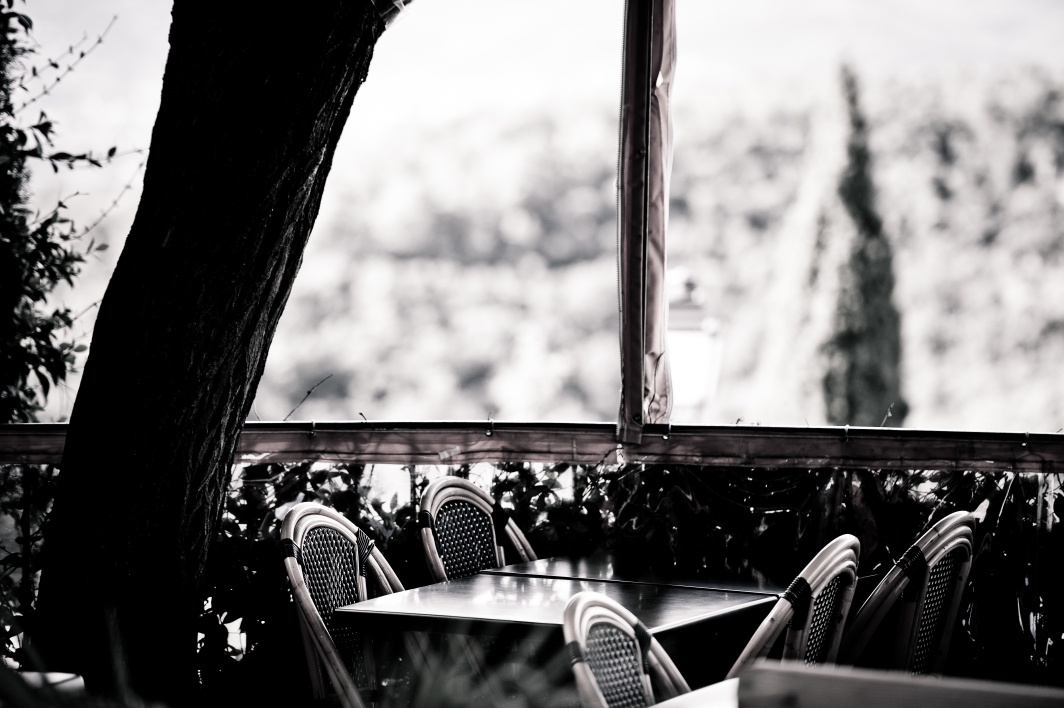
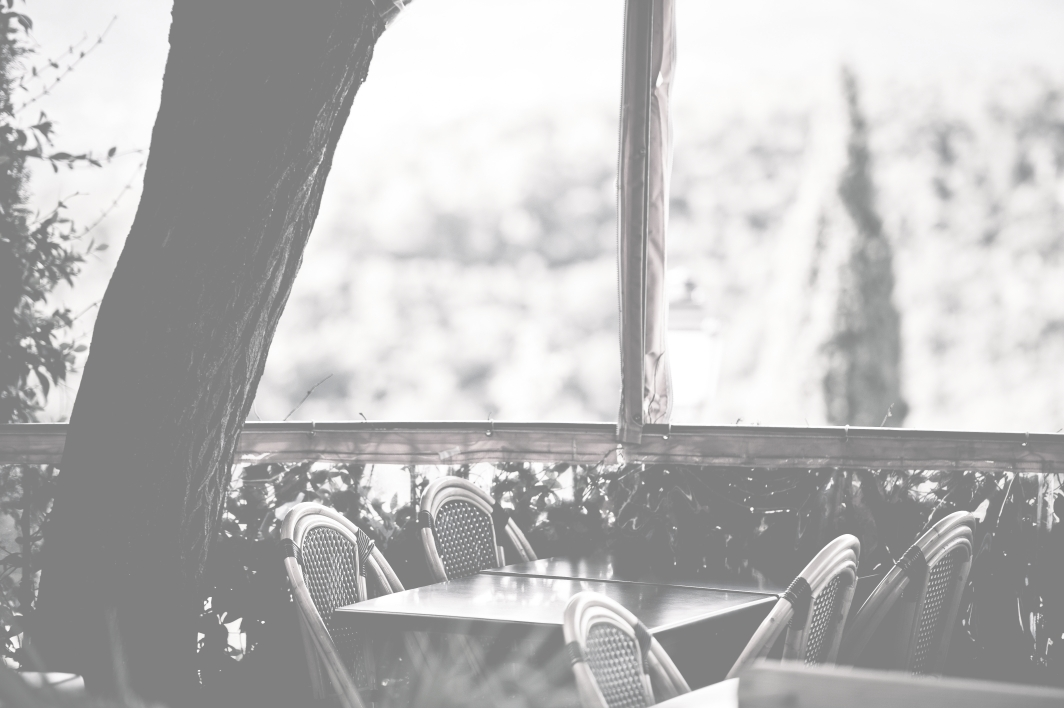
Added Elements For Static Page

diff --git a/main.css b/main.css
@@ -52,29 +52,60 @@ table {
 
 /* start of my code                                       */
 
+html { 
+  background: url(Images/headerM.jpg) no-repeat center center fixed; 
+  -webkit-background-size: cover;
+  -moz-background-size: cover;
+  -o-background-size: cover;
+  background-size: cover;
+}
+
 #container {
-	display: block;
-	margin: 0px auto;
-	width: 1020px;
+	min-width: 960px;
+	min-height: 400px;
+	font-family: 'Open Sans Condensed', sans-serif;
 }
 
 header {
 	position: relative;
-	margin: -250px auto 0px auto;
-}	
-
-header img {
-	width: 1020px;
+	height: 300px;
 }
 
 h1 {
 	position: absolute;
-	top: 295px;
-	left: 275px;
-	font-family: 'Open Sans Condensed', sans-serif;
-	font-size: 90px;
+	top: 50px;
+	right: 50px;
+	font-size: 130px;
 	color: black;
-	font-weight: 400;
+	font-weight: 300;
 	text-transform: uppercase;
+}
+
+#content {
+	display: block;
+	margin: 0px auto;
+}
+
+h4 {
+	text-align: center;
+	font-size: 22px;
+}
+
+form {
+	margin: 50px auto;
+}
+
+input {
+	display: block;
+	margin: 10px auto;
+	
+}
+
+input[type="text"] {
+	width: 200px;
+}
+
+input[type="submit"] {
+	width: 100px;
 }
 

diff --git a/index.html b/index.html
@@ -8,9 +8,17 @@
 	<body>
 		<div id="container">
 			<header>
-				<img src="Images/headerM.jpg" alt="restaurant"/>
 				<h1>Where To</h1>
 			</header>
+			<div id="content"> 
+				<h4>We help groups decide where to meet for coffee, drinks, or food. <br> Stop trying to make everyone happy, and let us choose the best place for all of you.</h4>
+				<form>
+				<!--Need to add method and action for form-->
+					<h4>Enter your email for updates: </h4>
+					<input type="text" name="email">
+					<input type="submit" value="Submit">
+				</form>
+			</div>
 		</div>
 	</body>
 </html>
